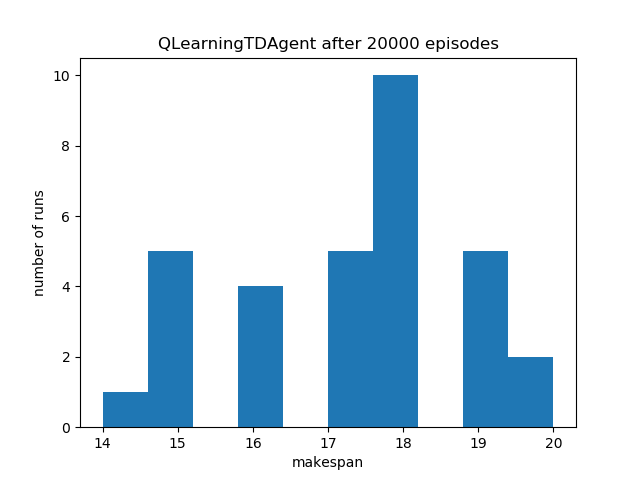
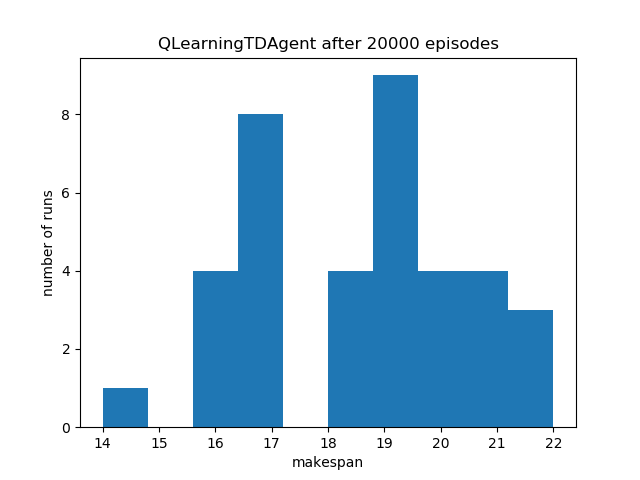
tweaks

diff --git a/day4/rl/jobshop/jobshop_scheduling_demo.py b/day4/rl/jobshop/jobshop_scheduling_demo.py
@@ -14,6 +14,7 @@ import numpy as np
 # our agents
 from random_agent import RandomAgent
 from qlearning_td_agent import QLearningTDAgent
+from dqn_agent import DQNAgent
 
 def RunAgent(env, agent, episode_count, steps_per_episode):
     done = False
@@ -72,7 +73,10 @@ if __name__ == "__main__":
         # RandomAgent(env.action_space),
 
         # verbose=10 prints Q-values
-        QLearningTDAgent(jobs_data=jobs_data, max_schedule_time=20, verbose=10)
+        QLearningTDAgent(jobs_data=jobs_data, epsilon=.4,
+            max_schedule_time=20)
+
+        #DQNAgent(jobs_data, env.observation_space, env.action_space)
     ]
 
     for agent in agents:
@@ -81,7 +85,7 @@ if __name__ == "__main__":
         env.reset()
         # in order for all tasks to be scheduled,
         # steps_per_episode should exceed number of tasks
-        success_history = RunAgent(env, agent, episode_count=20000,
+        success_history = RunAgent(env, agent, episode_count=50000,
             steps_per_episode=20)
 
         if len(success_history):
